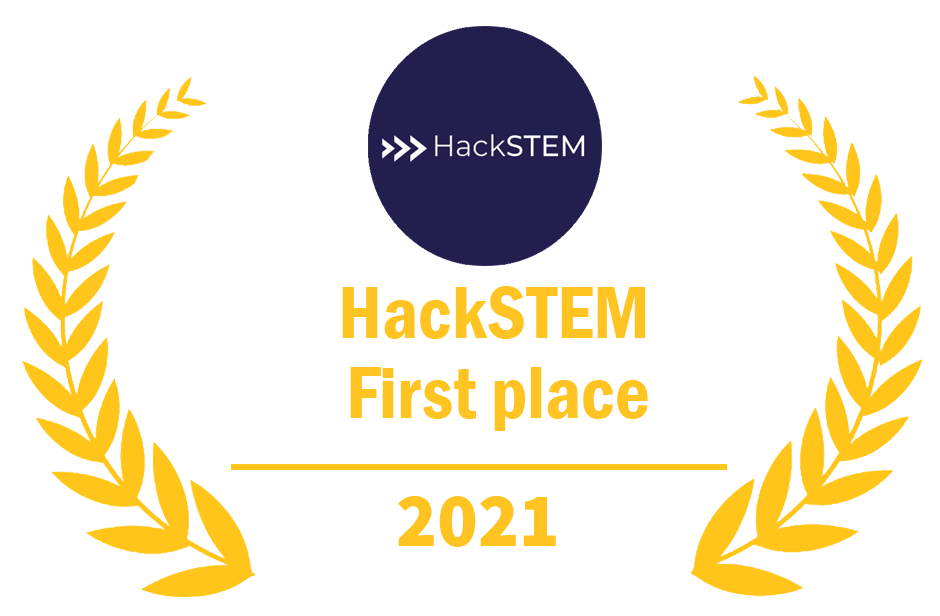
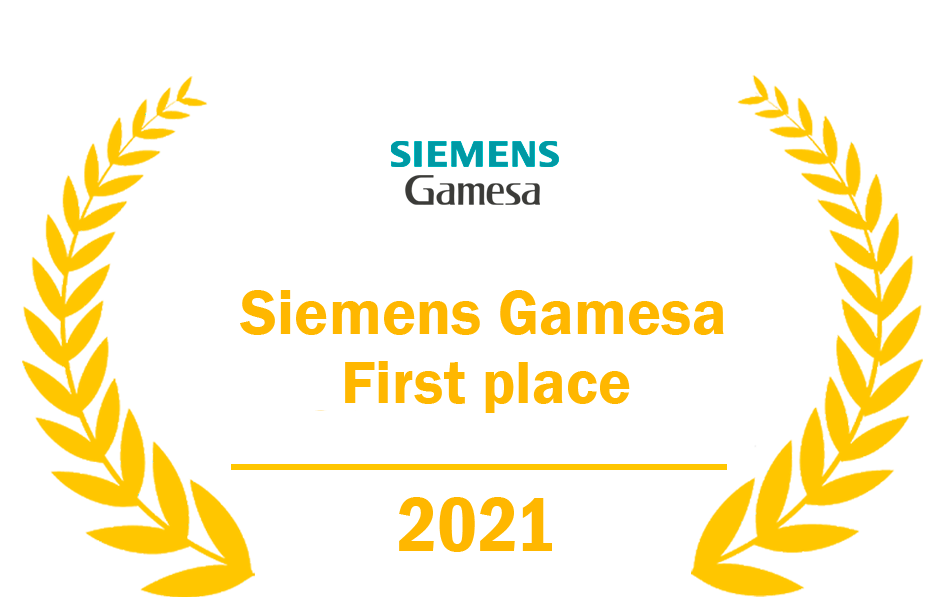
FixImages

diff --git a/index.html b/index.html
@@ -305,7 +305,7 @@
                     </div>
                     <div class="col">
                         <a href="https://ladymarina.itch.io/codebox"  target="_blank">
-                            <img class="award-img mb-5 btn btn-outline-light " src="assets/img/awards/Hackthon2020.png" alt="..." />
+                            <img class="award-img mb-5 btn btn-outline-light " src="assets/img/awards/SiemensGamesa2020.png" alt="..." />
                         </a>
                        
                     </div>
